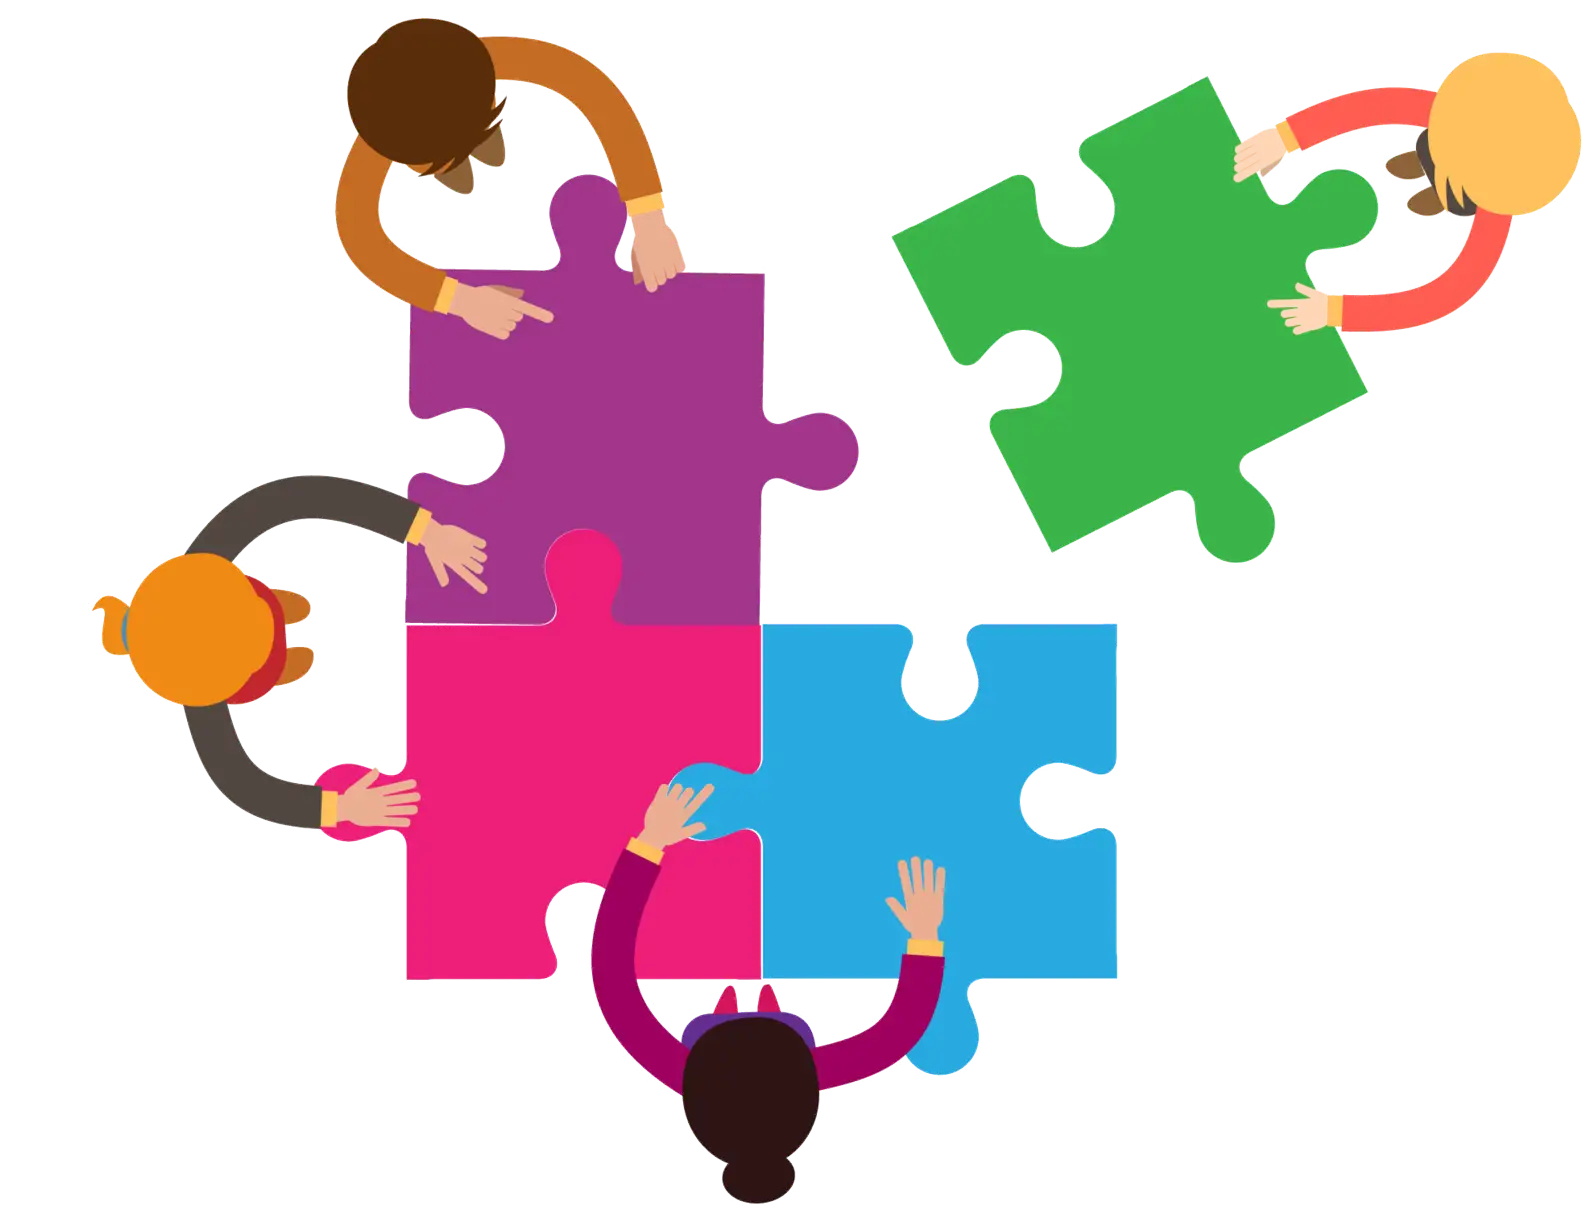
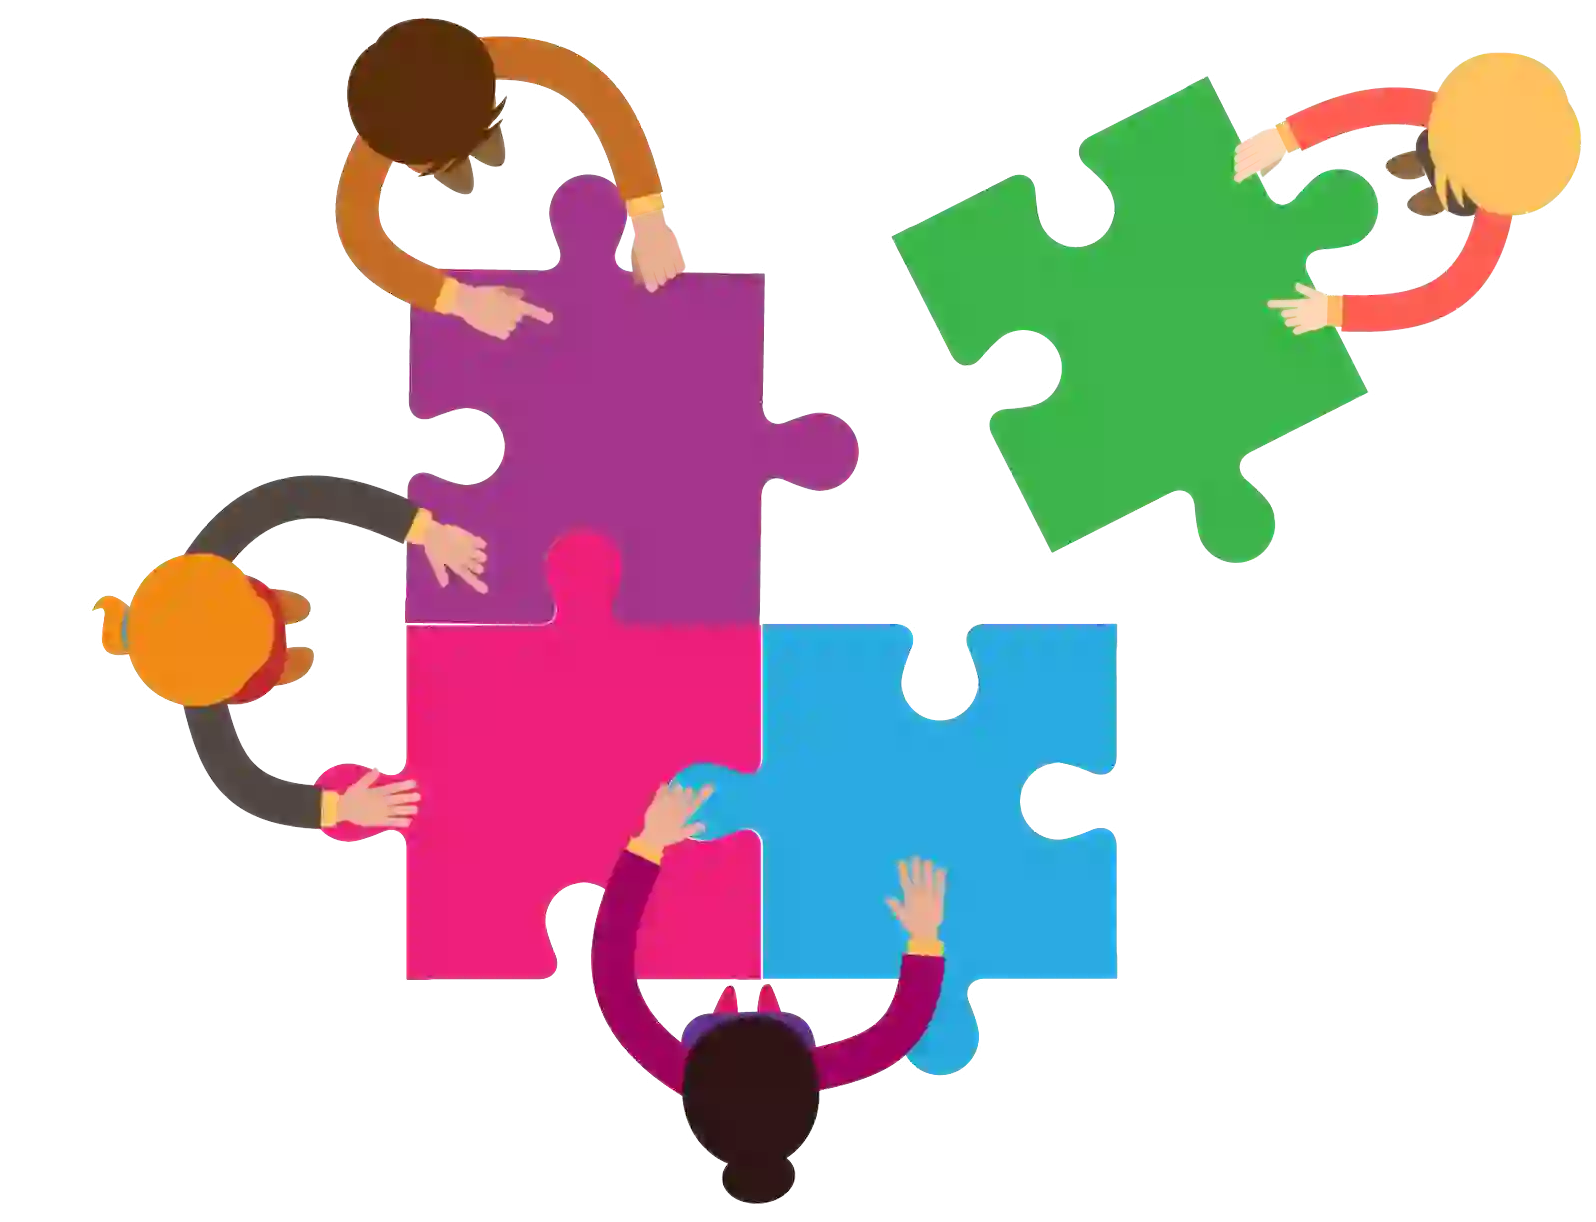
Perf: change the images to webp & compressed
to make the assets smaller for the end users

diff --git a/src/components/LandingPage/Promo/Promo.data.ts b/src/components/LandingPage/Promo/Promo.data.ts
@@ -1,43 +1,43 @@
 type PromoData = {
-	imageSrc: {
-		src: string
-		alt: string
-	}
-	title: string
-	iconSrc?: string
-	description: string
+  imageSrc: {
+    src: string
+    alt: string
+  }
+  title: string
+  iconSrc?: string
+  description: string
 }
 
 export const data: PromoData[] = [
-	{
-		title: 'Are you tired of wrong answers?',
-		iconSrc: '/images/promo/emoji/exclamation-question.png',
-		imageSrc: {
-			alt: 'Person with a laptop holding their head with left hand with a sore expression on their face',
-			src: '/images/promo/Headache.png',
-		},
-		description:
-			'When starting out with web development, it can be difficult to know where to start. When searching JavaScript problem solutions online, you often are faced with a sea of jQuery code, which is a library that is no longer used in modern web development.',
-	},
-	{
-		title: 'Find what you need to learn',
+  {
+    title: 'Are you tired of wrong answers?',
+    iconSrc: '/images/promo/emoji/exclamation-question.webp',
+    imageSrc: {
+      alt: 'Person with a laptop holding their head with left hand with a sore expression on their face',
+      src: '/images/promo/Headache.webp',
+    },
+    description:
+      'When starting out with web development, it can be difficult to know where to start. When searching JavaScript problem solutions online, you often are faced with a sea of jQuery code, which is a library that is no longer used in modern web development.',
+  },
+  {
+    title: 'Find what you need to learn',
 
-		iconSrc: '/images/promo/emoji/brain.png',
-		imageSrc: {
-			alt: 'person programming',
-			src: '/images/promo/Programming-amico.png',
-		},
-		description:
-			'The knowledge you need to build a website is out there, but it’s scattered across the internet. You have to know where to look, and how to find the information you need. We’ve done the work for you. We’ve collected the best resources and put them in one place.',
-	},
-	{
-		title: 'Together we can build a better web',
-		iconSrc: '/images/promo/emoji/cog.png',
-		imageSrc: {
-			alt: 'Two peole with a laptop, coputer and a smartphone and a globe in the center surrounded by a net of icons',
-			src: '/images/promo/online.png',
-		},
-		description:
-			'Use materials from this site to learn how to build a website. You can contribute to our project by adding new resources, or by helping us improve the site. Go to our GitHub page to learn more.',
-	},
+    iconSrc: '/images/promo/emoji/brain.webp',
+    imageSrc: {
+      alt: 'person programming',
+      src: '/images/promo/Programming-amico.webp',
+    },
+    description:
+      'The knowledge you need to build a website is out there, but it’s scattered across the internet. You have to know where to look, and how to find the information you need. We’ve done the work for you. We’ve collected the best resources and put them in one place.',
+  },
+  {
+    title: 'Together we can build a better web',
+    iconSrc: '/images/promo/emoji/cog.webp',
+    imageSrc: {
+      alt: 'Two peole with a laptop, coputer and a smartphone and a globe in the center surrounded by a net of icons',
+      src: '/images/promo/online.webp',
+    },
+    description:
+      'Use materials from this site to learn how to build a website. You can contribute to our project by adding new resources, or by helping us improve the site. Go to our GitHub page to learn more.',
+  },
 ]

diff --git a/src/pages/resources/build_your_project.md b/src/pages/resources/build_your_project.md
@@ -21,7 +21,7 @@ layout: ../../layouts/MainLayout.astro
 - [Localhost Academy - Jak planować zbudowanie projektu, aby się nie zgubić i wiedzieć, co robić dalej?](https://www.youtube.com/watch?v=wNO1hL6v0Ng)
 - [Notatki z tego wykładu](https://regal-vertebra-c76.notion.site/2020-08-06-Burza-m-zg-w-odno-nie-nowej-aplikacji-XNotes-w-metodyce-BDD-2020-09-16-Om-wienie-p-020d6c12e6fc4f1a9bd7781fdb26883d)
   W jaki sposób podejść do tworzenia projektu? Interesujący komentarz z grupy na FB:
-- ![Komentarz dot. tworzenia projektu](/images/misc/projekt.png)
+- ![Komentarz dot. tworzenia projektu](/images/misc/projekt.webp)
 
 ## Code review tips
 
